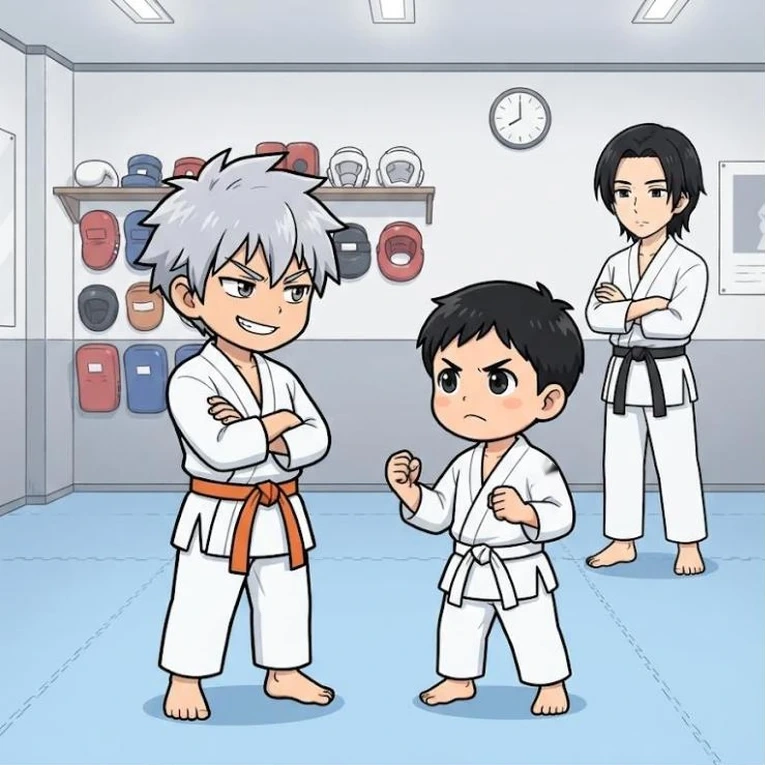
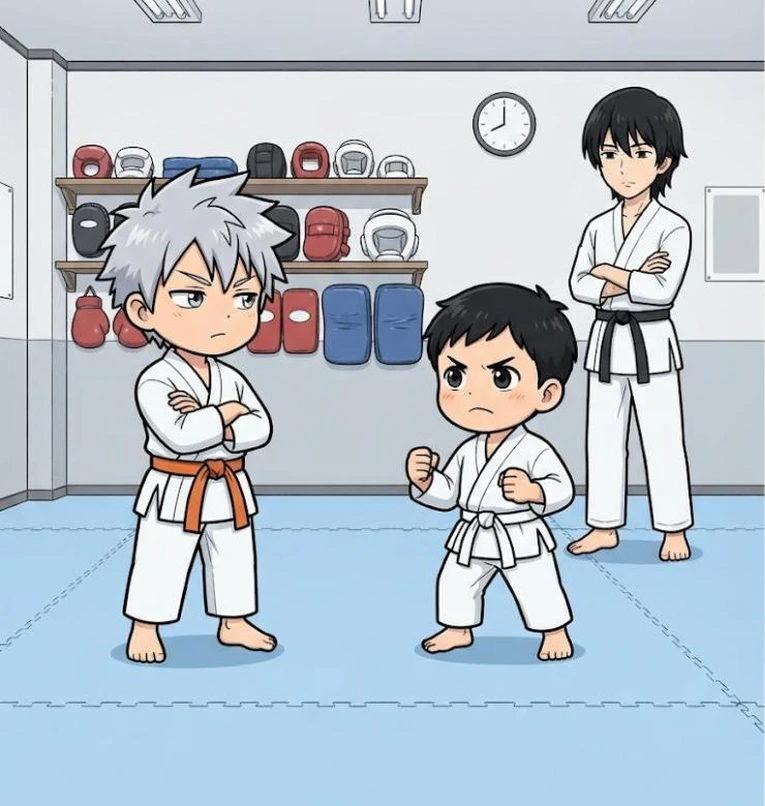
OP10: 颯を主人公と同じ背に描き直し。動画再生の仕組みを追加

diff --git a/index.html b/index.html
@@ -638,6 +638,7 @@ p,.tx,.small{text-wrap:pretty}
 #op .op-ill{position:absolute;inset:0;max-width:720px;margin:0 auto;z-index:1;pointer-events:none;display:flex;align-items:center;justify-content:center;background:#000}
 #op .op-ill:empty{display:none}
 #op .op-ill img{width:100%;height:100%;object-fit:contain;object-position:50% 100%;animation:kenburns 9s ease-out both}
+#op .op-ill video{width:100%;height:100%;object-fit:contain;object-position:50% 100%;background:#000}
 #op:has(.op-box:not([hidden])) .op-ill{bottom:clamp(150px,27vh,240px)}
 @keyframes kenburns{from{transform:scale(1.08)}to{transform:scale(1)}}
 #op.hasill .op-stage,#op.hasill .op-bg{visibility:hidden}
@@ -1992,7 +1993,9 @@ async function opening(){
   // 生成イラスト（assets/op/<kizuna|kokoro>-<1..9>.webp）があれば使い、なければ手描きの立ち絵で進める
   const OPI={};await Promise.race([Promise.all([1,2,3,4,5,6,7,8,9,10].map(n=>new Promise(res=>{const im=new Image();im.onload=()=>{OPI[n]=im.src;res()};im.onerror=()=>res();im.src=`assets/op/${PUBLIC_BUILD&&(n===3||n===4)?'pub/':''}${P()}-${n}.webp`}))),sleep(2500)]);
   let ill=$('.op-ill',op);if(!ill){ill=document.createElement('div');ill.className='op-ill';op.insertBefore(ill,$('.op-box',op))}
-  const scene=n=>{if(OPI[n]){ill.innerHTML=`<img src="${OPI[n]}" alt="">`;op.classList.add('hasill')}else{ill.innerHTML='';op.classList.remove('hasill')}};
+  // 動画にした場面の番号（assets/op/<kizuna|kokoro>-<n>.mp4）。読めないときは自動で静止画にもどる
+  const OPV=new Set(({kizuna:[],kokoro:[]})[P()]||[]);
+  const scene=n=>{if(OPI[n]){const still=`<img src="${OPI[n]}" alt="">`;ill.innerHTML=OPV.has(n)?`<video src="assets/op/${PUBLIC_BUILD&&(n===3||n===4)?'pub/':''}${P()}-${n}.mp4" poster="${OPI[n]}" autoplay muted loop playsinline></video>`:still;const v=$('video',ill);if(v)v.onerror=()=>{ill.innerHTML=still};op.classList.add('hasill')}else{ill.innerHTML='';op.classList.remove('hasill')}};
   const actors=list=>{st.innerHTML=list.map(a=>`<div class="act ${a.cls||''}" style="left:${a.x}%;height:${a.h||44}%;${a.flip?'--fx:-1;':''}" data-id="${a.id}">${a.img?`<img src="${a.img}" alt="">`:fig(a.id,a.pose,a.ex)}</div>`).join('')};
   const say=async(who,t)=>{if(skip)return;box.hidden=false;$('.np',box).textContent=who?nameOf(who):'';$('.np',box).classList.toggle('none',!who);voiceLine(who,t);
     const tx=$('.tx',box);let n=0;tx.dataset.typing=1;tx.textContent='';await new Promise(r=>{const iv=setInterval(()=>{n+=2;tx.textContent=t.slice(0,n);if(n>=t.length||skip){clearInterval(iv);tx.textContent=t;delete tx.dataset.typing;furiDOM(tx);r()}},30);tapR=()=>{n=t.length}});await wait()};
